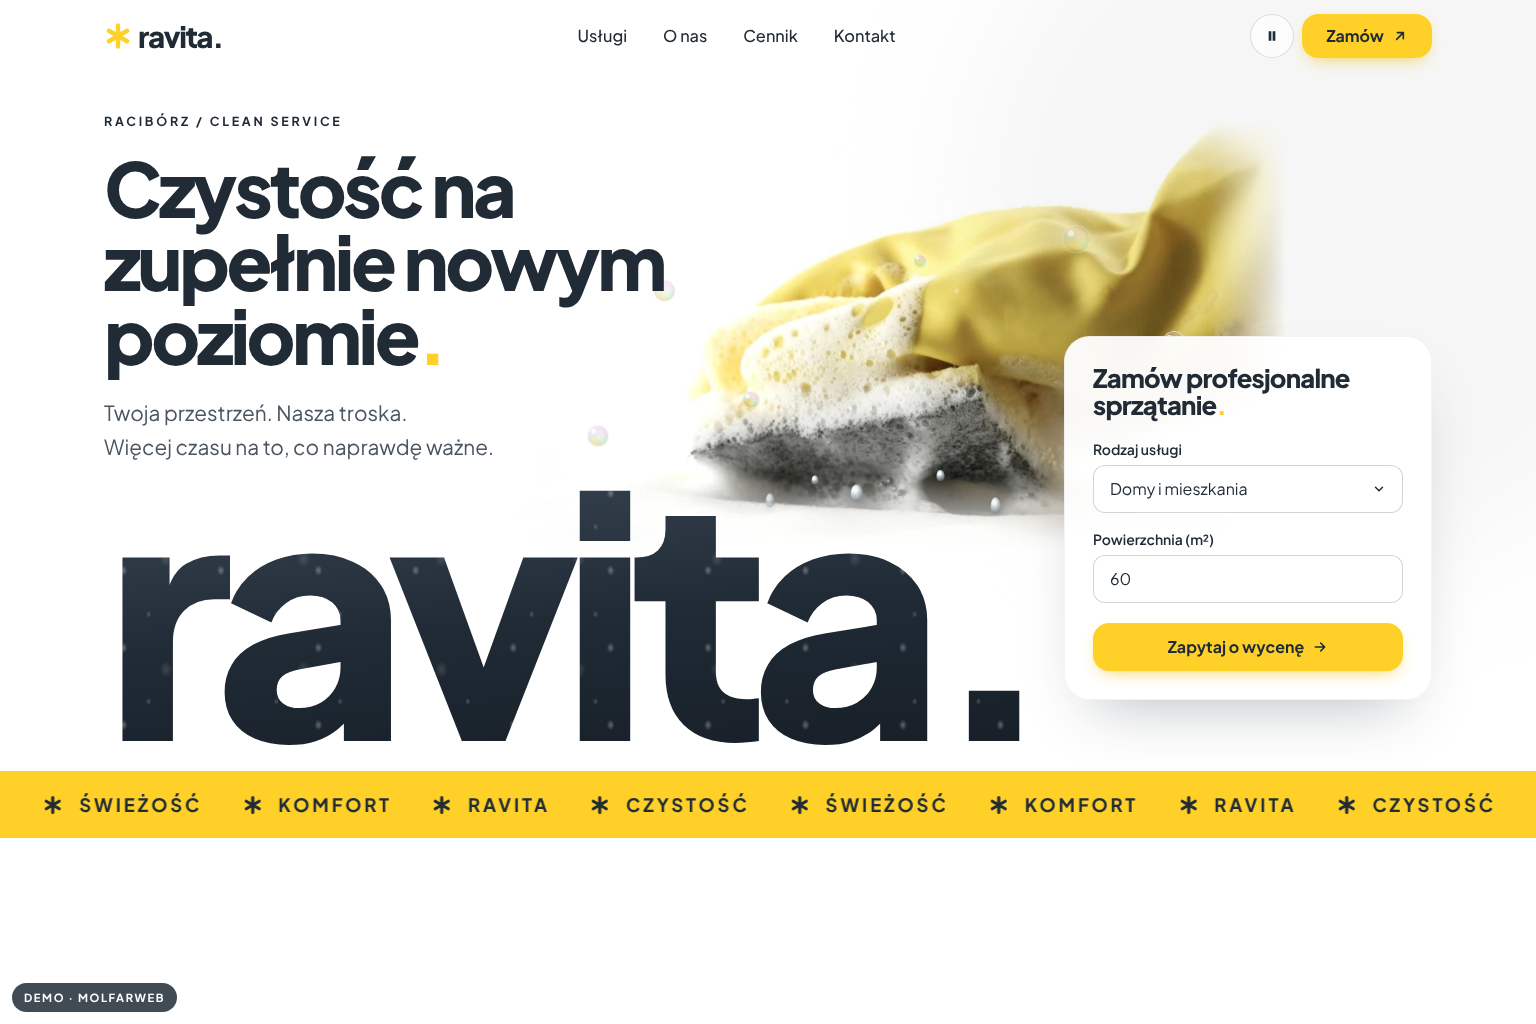
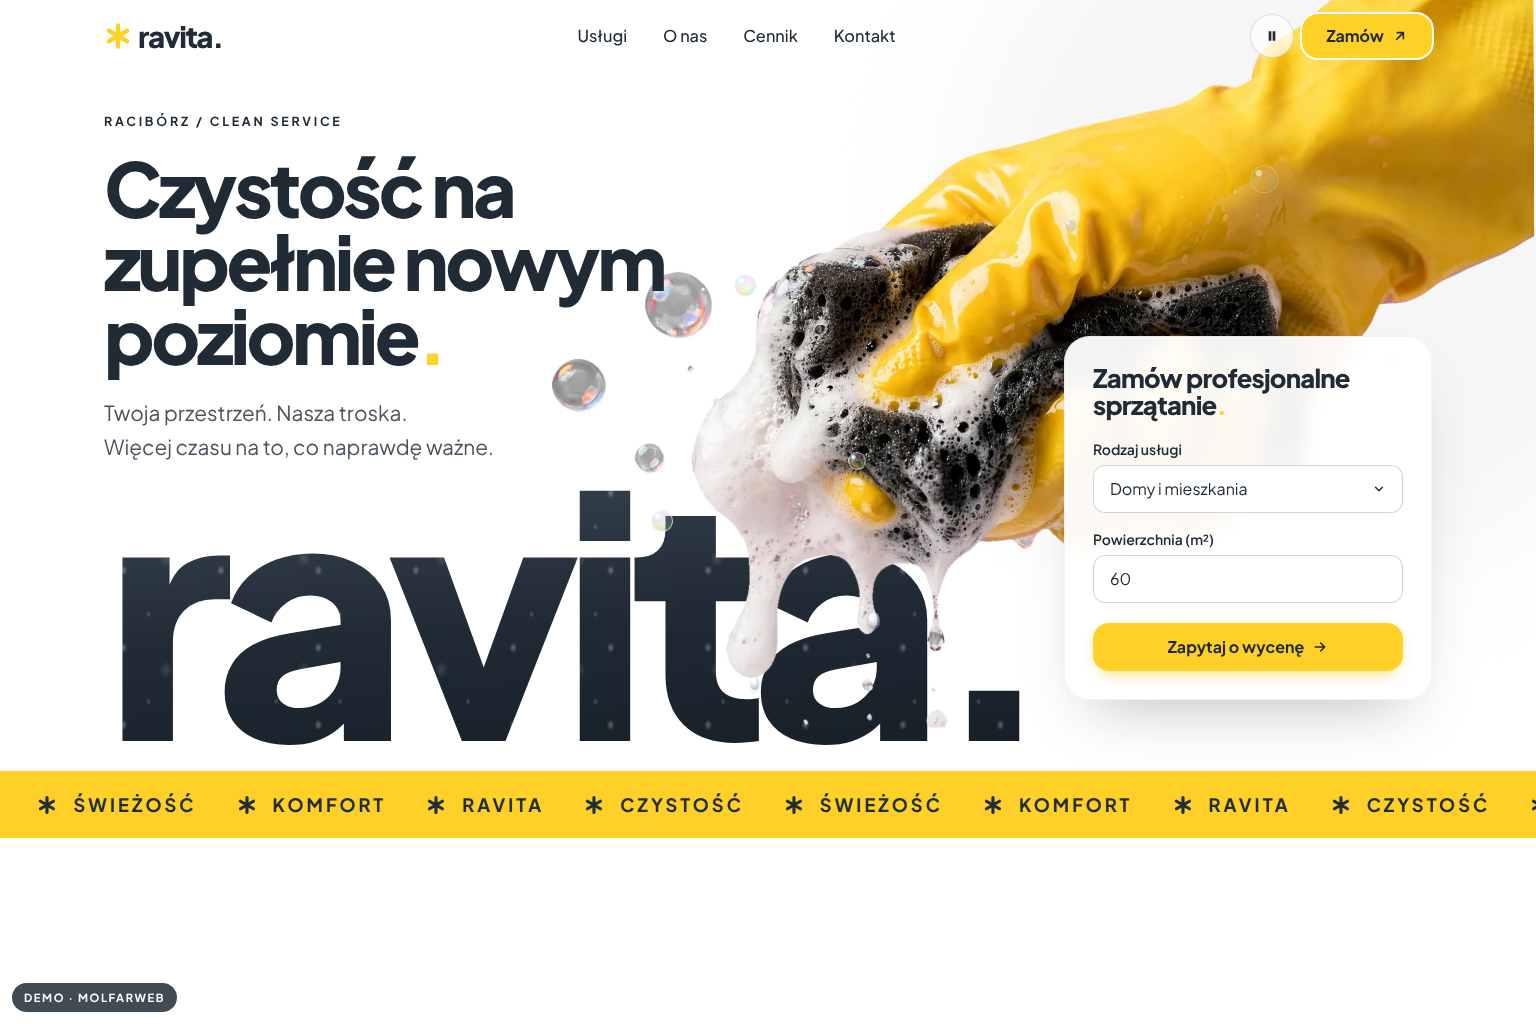
Use real transparent glove photo in hero
Clean magenta matting fringe, trim, add 960px variant via srcset,
anchor glove to viewport edge so the sleeve leaves the frame,
drop temporary blend/mask code, add contrast ring to header CTA.

Claude-Session: https://claude.ai/code/session_01AEZdfbhJ4tc5RmTYjBjWgc

diff --git a/projects/sites/ravita/src/components/HeroGlove.tsx b/projects/sites/ravita/src/components/HeroGlove.tsx
@@ -3,26 +3,20 @@ import type { CSSProperties } from "react";
 /**
  * Рукавичка + губка + піна, краплі та бульбашки.
  *
- * ТИМЧАСОВИЙ РЕСУРС: hero-glove-temp.webp вирізано з референсу (на білому фоні).
- * Фінальний файл — PNG/WebP з прозорим фоном: покладіть у public/assets/hero-glove.webp,
- * змініть GLOVE_SRC і вимкніть TEMP_BLEND — анімації лишаться без змін.
+ * Фото — PNG з прозорим фоном (AI-згенероване, ілюстративне), очищене від рожевого ореолу
+ * та стиснуте у WebP. Щоб замінити: покласти новий файл у public/assets і оновити GLOVE (src, w, h, drops).
  */
-export const GLOVE_SRC = "assets/hero-glove-temp.webp";
-// Тимчасове фото має білий фон → mix-blend-mode: multiply робить білий «прозорим».
-// Для фінального PNG з альфа-каналом: TEMP_BLEND = false.
-export const TEMP_BLEND = true;
-// М'яко гасимо краї тимчасового фото, щоб не було видно прямокутника
-const TEMP_MASK =
-  "linear-gradient(to right, transparent, #000 14%, #000 90%, transparent), linear-gradient(to bottom, transparent, #000 12%, #000 82%, transparent)";
+// Обраний варіант (v2). x/y крапель — кінчики патьоків піни у % картинки: звідти падають анімовані краплі.
+const GLOVE = {
+  src: "assets/hero-glove.webp",
+  srcSmall: "assets/hero-glove-960.webp", // для телефонів — у 3 рази легший
+  w: 1841,
+  h: 1365,
+  drops: [{ x: 20, y: 88 }, { x: 32, y: 84 }, { x: 39, y: 87 }],
+};
 
-// Краплі під губкою: x/y у % контейнера, тривалість і затримка різні — щоб не падали «хором»
-const DROPS = [
-  { x: 33, y: 78, d: 3.2, l: 0.2, s: 9, f: 220 },
-  { x: 44, y: 84, d: 3.8, l: 1.4, s: 12, f: 260 },
-  { x: 55, y: 81, d: 2.9, l: 2.3, s: 8, f: 200 },
-  { x: 62, y: 86, d: 4.2, l: 0.8, s: 10, f: 240 },
-  { x: 39, y: 82, d: 3.5, l: 3.1, s: 7, f: 180 },
-];
+// Анімовані краплі: різна тривалість і затримка — щоб не падали «хором»
+const DROPS = GLOVE.drops.map((p, i) => ({ ...p, d: [3.2, 3.8, 2.9][i % 3], l: [0.2, 1.4, 2.3][i % 3], s: [9, 12, 8][i % 3], f: [220, 260, 200][i % 3] }));
 
 // Мильні бульбашки
 const BUBBLES = [
@@ -36,20 +30,20 @@ const BUBBLES = [
 
 export function HeroGlove() {
   return (
-    // Корінь БЕЗ transform/z-index: інакше multiply змішувався б лише сам із собою.
     // Фото й краплі — два шари з однаковою анімацією, тож рухаються синхронно.
-    <div className="relative aspect-[1066/588] w-full" aria-hidden="true">
-      <div className="glove-enter absolute inset-0" style={TEMP_BLEND ? { mixBlendMode: "multiply" } : undefined}>
+    <div className="relative w-full" style={{ aspectRatio: `${GLOVE.w} / ${GLOVE.h}` }} aria-hidden="true">
+      <div className="glove-enter absolute inset-0">
         <div className="glove-float h-full w-full">
           <img
-            src={GLOVE_SRC}
+            src={GLOVE.src}
+            srcSet={`${GLOVE.srcSmall} 960w, ${GLOVE.src} ${GLOVE.w}w`}
+            sizes="(min-width: 1024px) 64vw, 100vw"
             alt=""
-            width={1066}
-            height={588}
+            width={GLOVE.w}
+            height={GLOVE.h}
             fetchPriority="high"
             decoding="async"
             className="pointer-events-none h-full w-full select-none object-contain"
-            style={TEMP_BLEND ? { maskImage: TEMP_MASK, WebkitMaskImage: TEMP_MASK, maskComposite: "intersect", WebkitMaskComposite: "source-in" } : undefined}
           />
         </div>
       </div>

diff --git a/projects/sites/ravita/src/components/Hero.tsx b/projects/sites/ravita/src/components/Hero.tsx
@@ -1,5 +1,5 @@
 import type { ServiceId } from "../content/pl";
-import { HeroGlove, TEMP_BLEND } from "./HeroGlove";
+import { HeroGlove } from "./HeroGlove";
 import { QuickQuote } from "./QuickQuote";
 
 /**
@@ -25,9 +25,9 @@ export function Hero({ onQuote }: { onQuote: (s: ServiceId, area: string) => voi
           </p>
         </div>
 
-        {/* Рукавичка: телефон — у потоці; desktop — праворуч, перекриває «ravita.».
-            Тимчасове фото (multiply) лежить під текстом; справжній PNG з прозорістю — над ним (z-20). */}
-        <div className={`relative ${TEMP_BLEND ? "" : "z-20"} -mx-4 mt-4 sm:mx-0 lg:absolute lg:right-[14%] lg:top-[2%] lg:mt-0 lg:w-[54%]`}>
+        {/* Рукавичка: телефон — у потоці; desktop — притиснута до правого й верхнього краю вікна
+            (рукав «виходить» за екран, як у макеті) і перекриває «ravita.». */}
+        <div className={`relative z-20 -mx-4 mt-4 sm:mx-0 lg:absolute lg:-top-28 lg:right-[calc((100%-100vw)/2)] lg:mt-0 lg:w-[64vw] lg:max-w-[1180px]`}>
           <HeroGlove />
         </div>
 

diff --git a/projects/sites/ravita/src/components/Header.tsx b/projects/sites/ravita/src/components/Header.tsx
@@ -61,7 +61,7 @@ export function Header({ paused, onTogglePause }: { paused: boolean; onTogglePau
               <svg viewBox="0 0 24 24" className="h-4 w-4" fill="currentColor" aria-hidden="true"><path d="M7 5h4v14H7zM13 5h4v14h-4z" /></svg>
             )}
           </button>
-          <a href="#kontakt" className="btn-sun hidden min-h-11! sm:inline-flex">
+          <a href="#kontakt" className="btn-sun hidden min-h-11! ring-2 ring-white sm:inline-flex">
             Zamów <ArrowUpRight />
           </a>
           <button

diff --git a/projects/sites/ravita/README.md b/projects/sites/ravita/README.md
@@ -35,12 +35,12 @@ npm run preview   # перегляд зібраної версії
 
 | Ресурс | Куди покласти | Що змінити в коді |
 |---|---|---|
-| Рукавичка з губкою, **PNG/WebP з прозорим фоном**, ≥ 2000 px завширшки | `public/assets/hero-glove.webp` | у `HeroGlove.tsx`: `GLOVE_SRC` і `TEMP_BLEND = false` |
+| ✅ Рукавичка (готово, AI-згенерована, варіант 2) | `public/assets/hero-glove.webp` + `hero-glove-960.webp` | для заміни: об'єкт `GLOVE` у `HeroGlove.tsx` |
 | 4 фото послуг, 4:5, ≥ 900×1125 | `public/assets/service-<id>.webp` (`domy`, `okna`, `biura`, `generalne`) | у `content/pl.ts`: `image: "assets/service-domy.webp"` |
 | Чисте вікно / вид за склом, 16:9, ≥ 2000 px | `public/assets/window-clean.webp` | у `CleaningDemo.tsx`: `CLEAN_PHOTO` |
 | Реальні роботи компанії | галерея | лише справжні фото від Ravita, **без AI** |
 
-Зараз у hero стоїть **тимчасовий** кроп із референсу MolfarWeb, змішаний із білим фоном через `mix-blend-mode: multiply`.
+Рукавичку очищено від рожевого ореолу (артефакт видалення фону) і обрізано по контуру. Це ілюстрація, а не фото реальної роботи компанії.
 
 ### Промпти (Midjourney / Flux)
 
